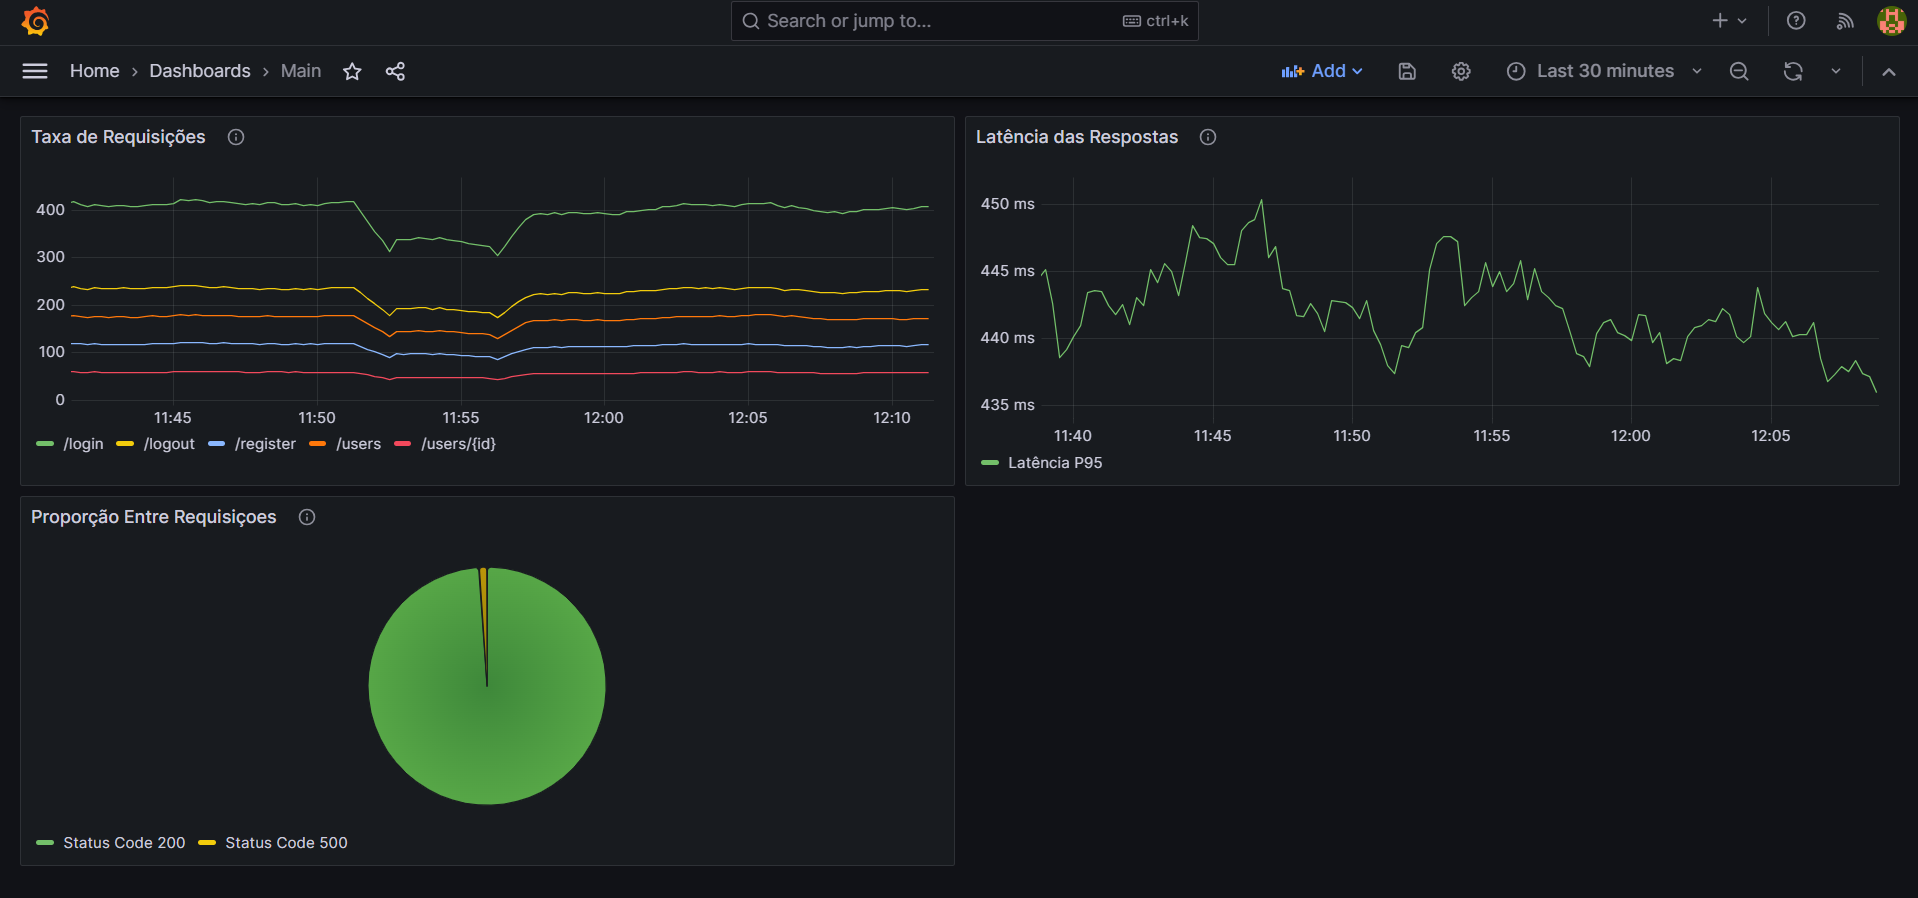
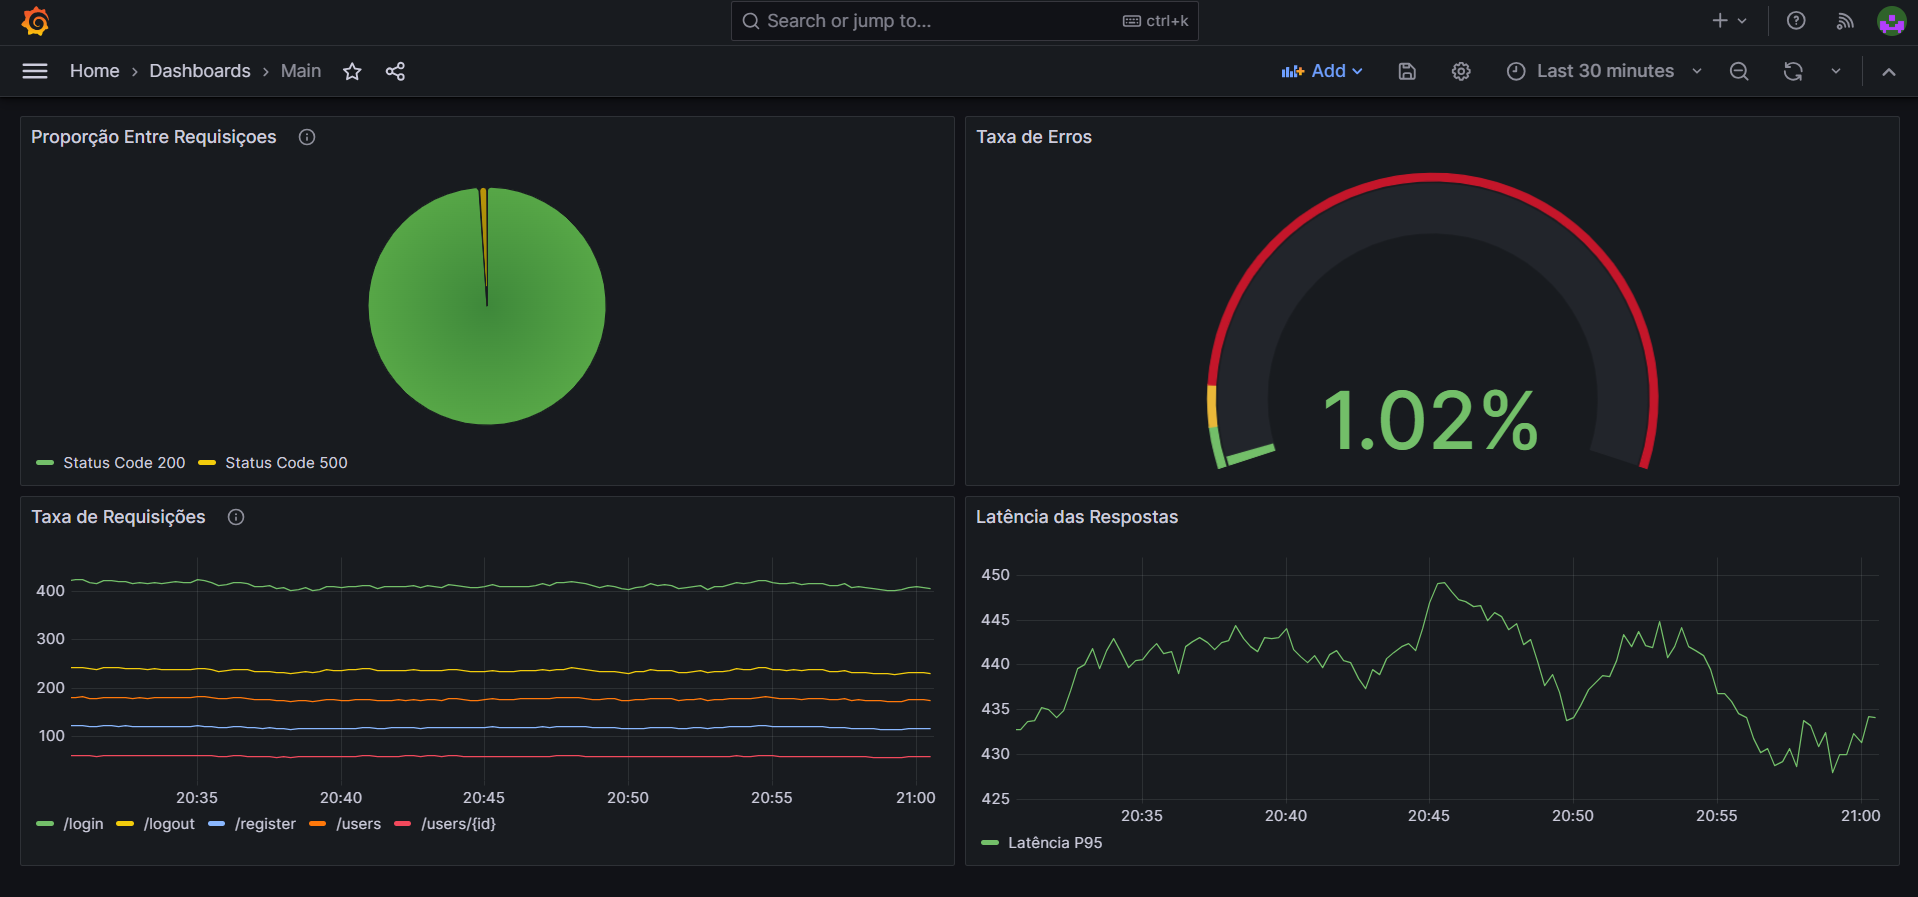
docs: atualiza imagem do dashboard com grid 2x2 e documenta nova metrica de taxa de erro

diff --git a/README.md b/README.md
@@ -49,11 +49,13 @@ docker compose up -d
 
 O dashboard construído apresenta:
 
+* Distribuição de status HTTP em proporção (Sucesso vs Erro).
+
+* Taxa percentual de erros, calculada pela razão entre falhas (HTTP 500) e o total de requisições, fornecendo a saúde instantânea do sistema.
+
 * Taxa de requisições por segundo (dividida por rotas).
 
 * Latência em milissegundos (P95).
-
-* Distribuição de status HTTP em proporção (Sucesso vs Erro).
 
 ### Regra de Alerta
 ![Regra de Alerta](docs/regra_alertas.png)